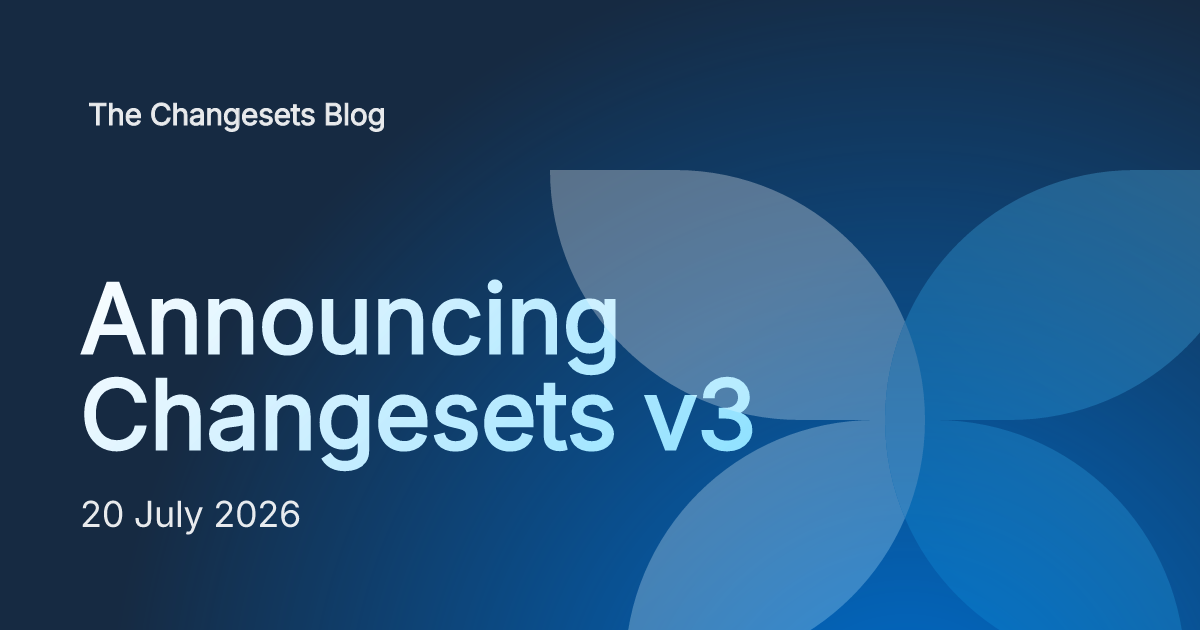
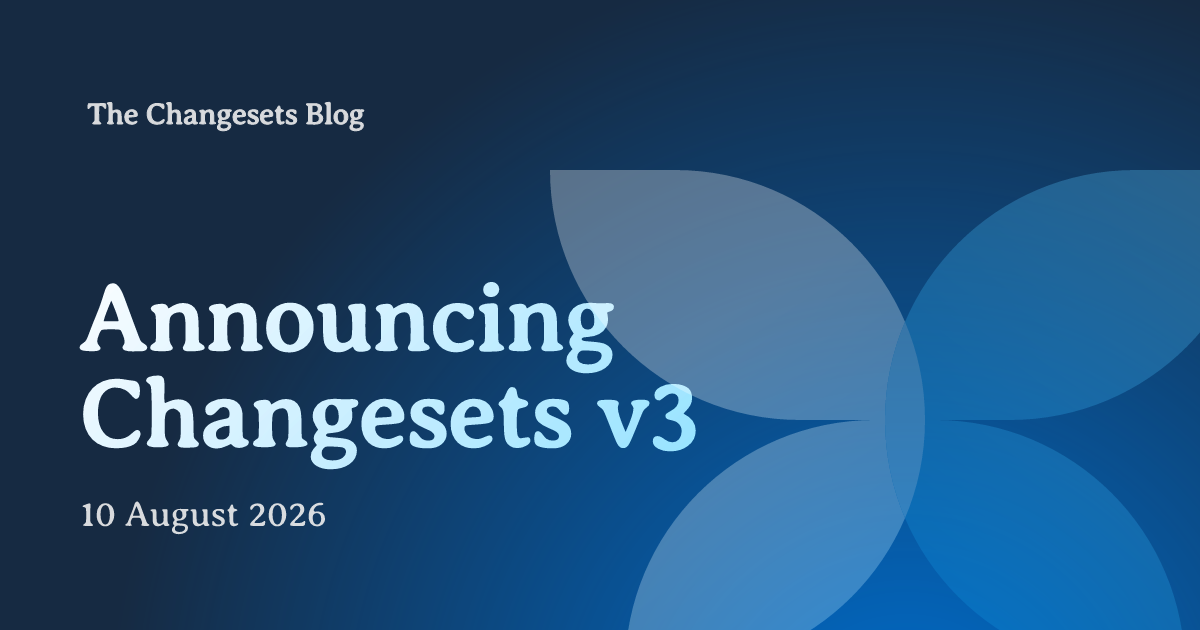
use Averia Serif Libre as "big" font (#2221)
* use averia serif libre for headings

* fix light mode color

* reduce letter spacing

* update og images

* add inter to loaded fonts

* fix blog post date

* add missed trim

diff --git a/site/scripts/generate-og.ts b/site/scripts/generate-og.ts
@@ -5,8 +5,11 @@ import { render } from "takumi-js";
 import { googleFonts } from "takumi-js/helpers";
 import { extractBlogData } from "../.vitepress/theme/utils.ts";
 
+const publicDir = path.resolve(import.meta.dirname, "../public");
 const blogDir = path.resolve(import.meta.dirname, "../blog");
-const blogOgOutDir = path.resolve(import.meta.dirname, "../public/blog");
+const blogOgOutDir = path.join(publicDir, "blog");
+
+await generateWebsiteOgImage();
 
 for (const blogFileName of await fs.readdir(blogDir)) {
   if (!blogFileName.endsWith(".md") || blogFileName === "index.md") continue;
@@ -15,7 +18,7 @@ for (const blogFileName of await fs.readdir(blogDir)) {
     blogOgOutDir,
     `${blogFileName.replace(/\.md$/, ".png")}`,
   );
-  if (fss.existsSync(blogOgOutFile)) {
+  if (fss.existsSync(blogOgOutFile) && !process.argv.includes("--force")) {
     console.log(`Skipping existing: ${blogOgOutFile}`);
     continue;
   }
@@ -26,17 +29,17 @@ for (const blogFileName of await fs.readdir(blogDir)) {
 
   console.log("Generating OG image for", blogFileName);
 
-  const ogImageBuffer = await generateOgImage(blogData);
+  const ogImageBuffer = await generateBlogOgImage(blogData);
 
   await fs.mkdir(blogOgOutDir, { recursive: true });
   await fs.writeFile(blogOgOutFile, ogImageBuffer);
 }
 
-async function generateOgImage(data: ReturnType<typeof extractBlogData>) {
+async function generateBlogOgImage(data: ReturnType<typeof extractBlogData>) {
   // NOTE: For the most part, you can copy and paste this template to https://takumi.kane.tw/playground
   // to easily adjust the styling, but update the `style` prop as React-style object so that it works.
-  const template = `\
-    <div tw="flex flex-col justify-between w-full h-full px-20 py-24 bg-[#162a42] text-white tracking-[-.02em]">
+  const template = `
+    <div tw="flex flex-col justify-between size-full px-20 py-24 bg-[#162a42] text-[#eee] tracking-[-.02em]">
       <div
         tw="absolute top-[-50px] left-[106px] w-[1600px] h-[1600px]"
         style="
@@ -44,7 +47,7 @@ async function generateOgImage(data: ReturnType<typeof extractBlogData>) {
         "
       ></div>
       <img tw="absolute top-[170px] left-[550px] opacity-30" src="https://raw.githubusercontent.com/changesets/changesets/refs/heads/main/assets/images/changesets-icon-dark.svg" height="500" />
-      <div tw="flex items-center gap-3 text-3xl font-semibold opacity-90">
+      <div tw="flex items-center text-3xl font-semibold opacity-90">
         The Changesets Blog
       </div>
       <div>
@@ -60,12 +63,37 @@ async function generateOgImage(data: ReturnType<typeof extractBlogData>) {
     </div>
   `.trim();
 
-  const buffer = await render(template, {
+  return generateOgImage(template);
+}
+
+async function generateWebsiteOgImage() {
+  const ogImagePath = path.join(publicDir, "og-image.png");
+  if (fss.existsSync(ogImagePath) && !process.argv.includes("--force")) {
+    console.log(`Skipping existing: ${ogImagePath}`);
+    return;
+  }
+
+  const template = `
+    <div tw="flex size-full items-center justify-center gap-8 bg-[#162a42] text-[#eee]">
+      <img
+        tw="mb-2"
+        height="150"
+        src="https://raw.githubusercontent.com/changesets/changesets/refs/heads/main/assets/images/changesets-icon-dark.svg"
+      />
+      
+      <div tw="text-[8.5em] font-bold">Changesets</div>
+    </div>
+  `.trim();
+
+  const buffer = await generateOgImage(template);
+  await fs.writeFile(ogImagePath, buffer);
+}
+
+async function generateOgImage(template: string) {
+  return render(template, {
     width: 1200,
     height: 630,
     format: "png",
-    fonts: googleFonts(["Inter"]),
+    fonts: googleFonts(["Averia Serif Libre"]),
   });
-
-  return buffer;
 }

diff --git a/site/.vitepress/theme/custom.css b/site/.vitepress/theme/custom.css
@@ -9,6 +9,8 @@
   --vp-c-brand-3: #1f9ce2;
   --vp-c-brand-soft: rgba(102, 204, 255, 0.14);
 
+  --vp-c-heading-1: #364c6c;
+
   --vp-home-hero-name-color: transparent;
   --vp-home-hero-name-background: linear-gradient(
     135deg,
@@ -25,6 +27,9 @@
   /* Add transparency for navigation bars */
   --vp-nav-bg-color: color-mix(in srgb, var(--vp-c-bg) 70%, transparent);
   --vp-local-nav-bg-color: color-mix(in srgb, var(--vp-c-bg) 70%, transparent);
+
+  /* Fonts */
+  --vp-font-family-serif: "Averia Serif Libre", serif;
 }
 
 .dark {
@@ -33,7 +38,42 @@
   --vp-c-brand-3: #2a7fc4;
   --vp-c-brand-soft: rgba(77, 158, 228, 0.16);
 
+  --vp-c-heading-1: #c7dbeb;
+
   --vp-home-hero-image-filter: blur(80px) opacity(0.5);
+}
+
+html {
+  scroll-behavior: smooth;
+  scroll-padding-top: 100px;
+}
+
+h1,
+h2,
+h3,
+h4,
+h5,
+h6 {
+  color: var(--vp-c-heading-1);
+  font-family: var(--vp-font-family-serif) !important;
+  letter-spacing: -0.02em !important;
+}
+
+code {
+  /* the above heading letter-spacing does not work well with code blocks in headings */
+  letter-spacing: 0;
+}
+
+.VPDoc h1 {
+  font-size: 32px;
+}
+
+.VPDoc h2 {
+  font-size: 28px;
+}
+
+.VPDoc h3 {
+  font-size: 24px;
 }
 
 /* Ensure tagline stays single line */
@@ -53,6 +93,11 @@
 .VPNavBar:not(.home.top),
 .VPLocalNav {
   backdrop-filter: saturate(180%) blur(20px);
+}
+
+.VPNavBarTitle span {
+  font-family: var(--vp-font-family-serif);
+  font-size: 1.5em;
 }
 
 /* We do not need sponsor images for now */

diff --git a/site/.vitepress/config.ts b/site/.vitepress/config.ts
@@ -47,6 +47,18 @@ export default defineConfig({
     ["meta", { property: "og:site_name", content: siteTitle }],
     ["meta", { name: "twitter:card", content: "summary_large_image" }],
     ["meta", { name: "theme-color", content: "#006dcc" }],
+
+    ["link", { rel: "preconnect", href: "https://fonts.googleapis.com" }],
+    [
+      "link",
+      { rel: "preconnect", href: "https://fonts.gstatic.com", crossorigin: "" },
+    ],
+    [
+      "link",
+      {
+        href: "https://fonts.googleapis.com/css2?family=Averia+Serif+Libre:wght@400;700&family=Inter:ital,opsz,wght@0,14..32,400..700;1,14..32,400..700&display=swap",
+      },
+    ],
   ],
   lastUpdated: true,
   cleanUrls: true,

diff --git a/site/.vitepress/theme/index.ts b/site/.vitepress/theme/index.ts
@@ -1,5 +1,5 @@
 import type { Theme } from "vitepress";
-import DefaultTheme from "vitepress/theme";
+import DefaultTheme from "vitepress/theme-without-fonts";
 import "./custom.css";
 import "vitepress-plugin-graphviz/style.css";
 import "virtual:group-icons.css";

diff --git a/site/blog/announcing-changesets-v3.md b/site/blog/announcing-changesets-v3.md
@@ -1,6 +1,6 @@
 # Announcing Changesets v3
 
-_20 July 2026_
+_10 August 2026_
 
 TODO
 
